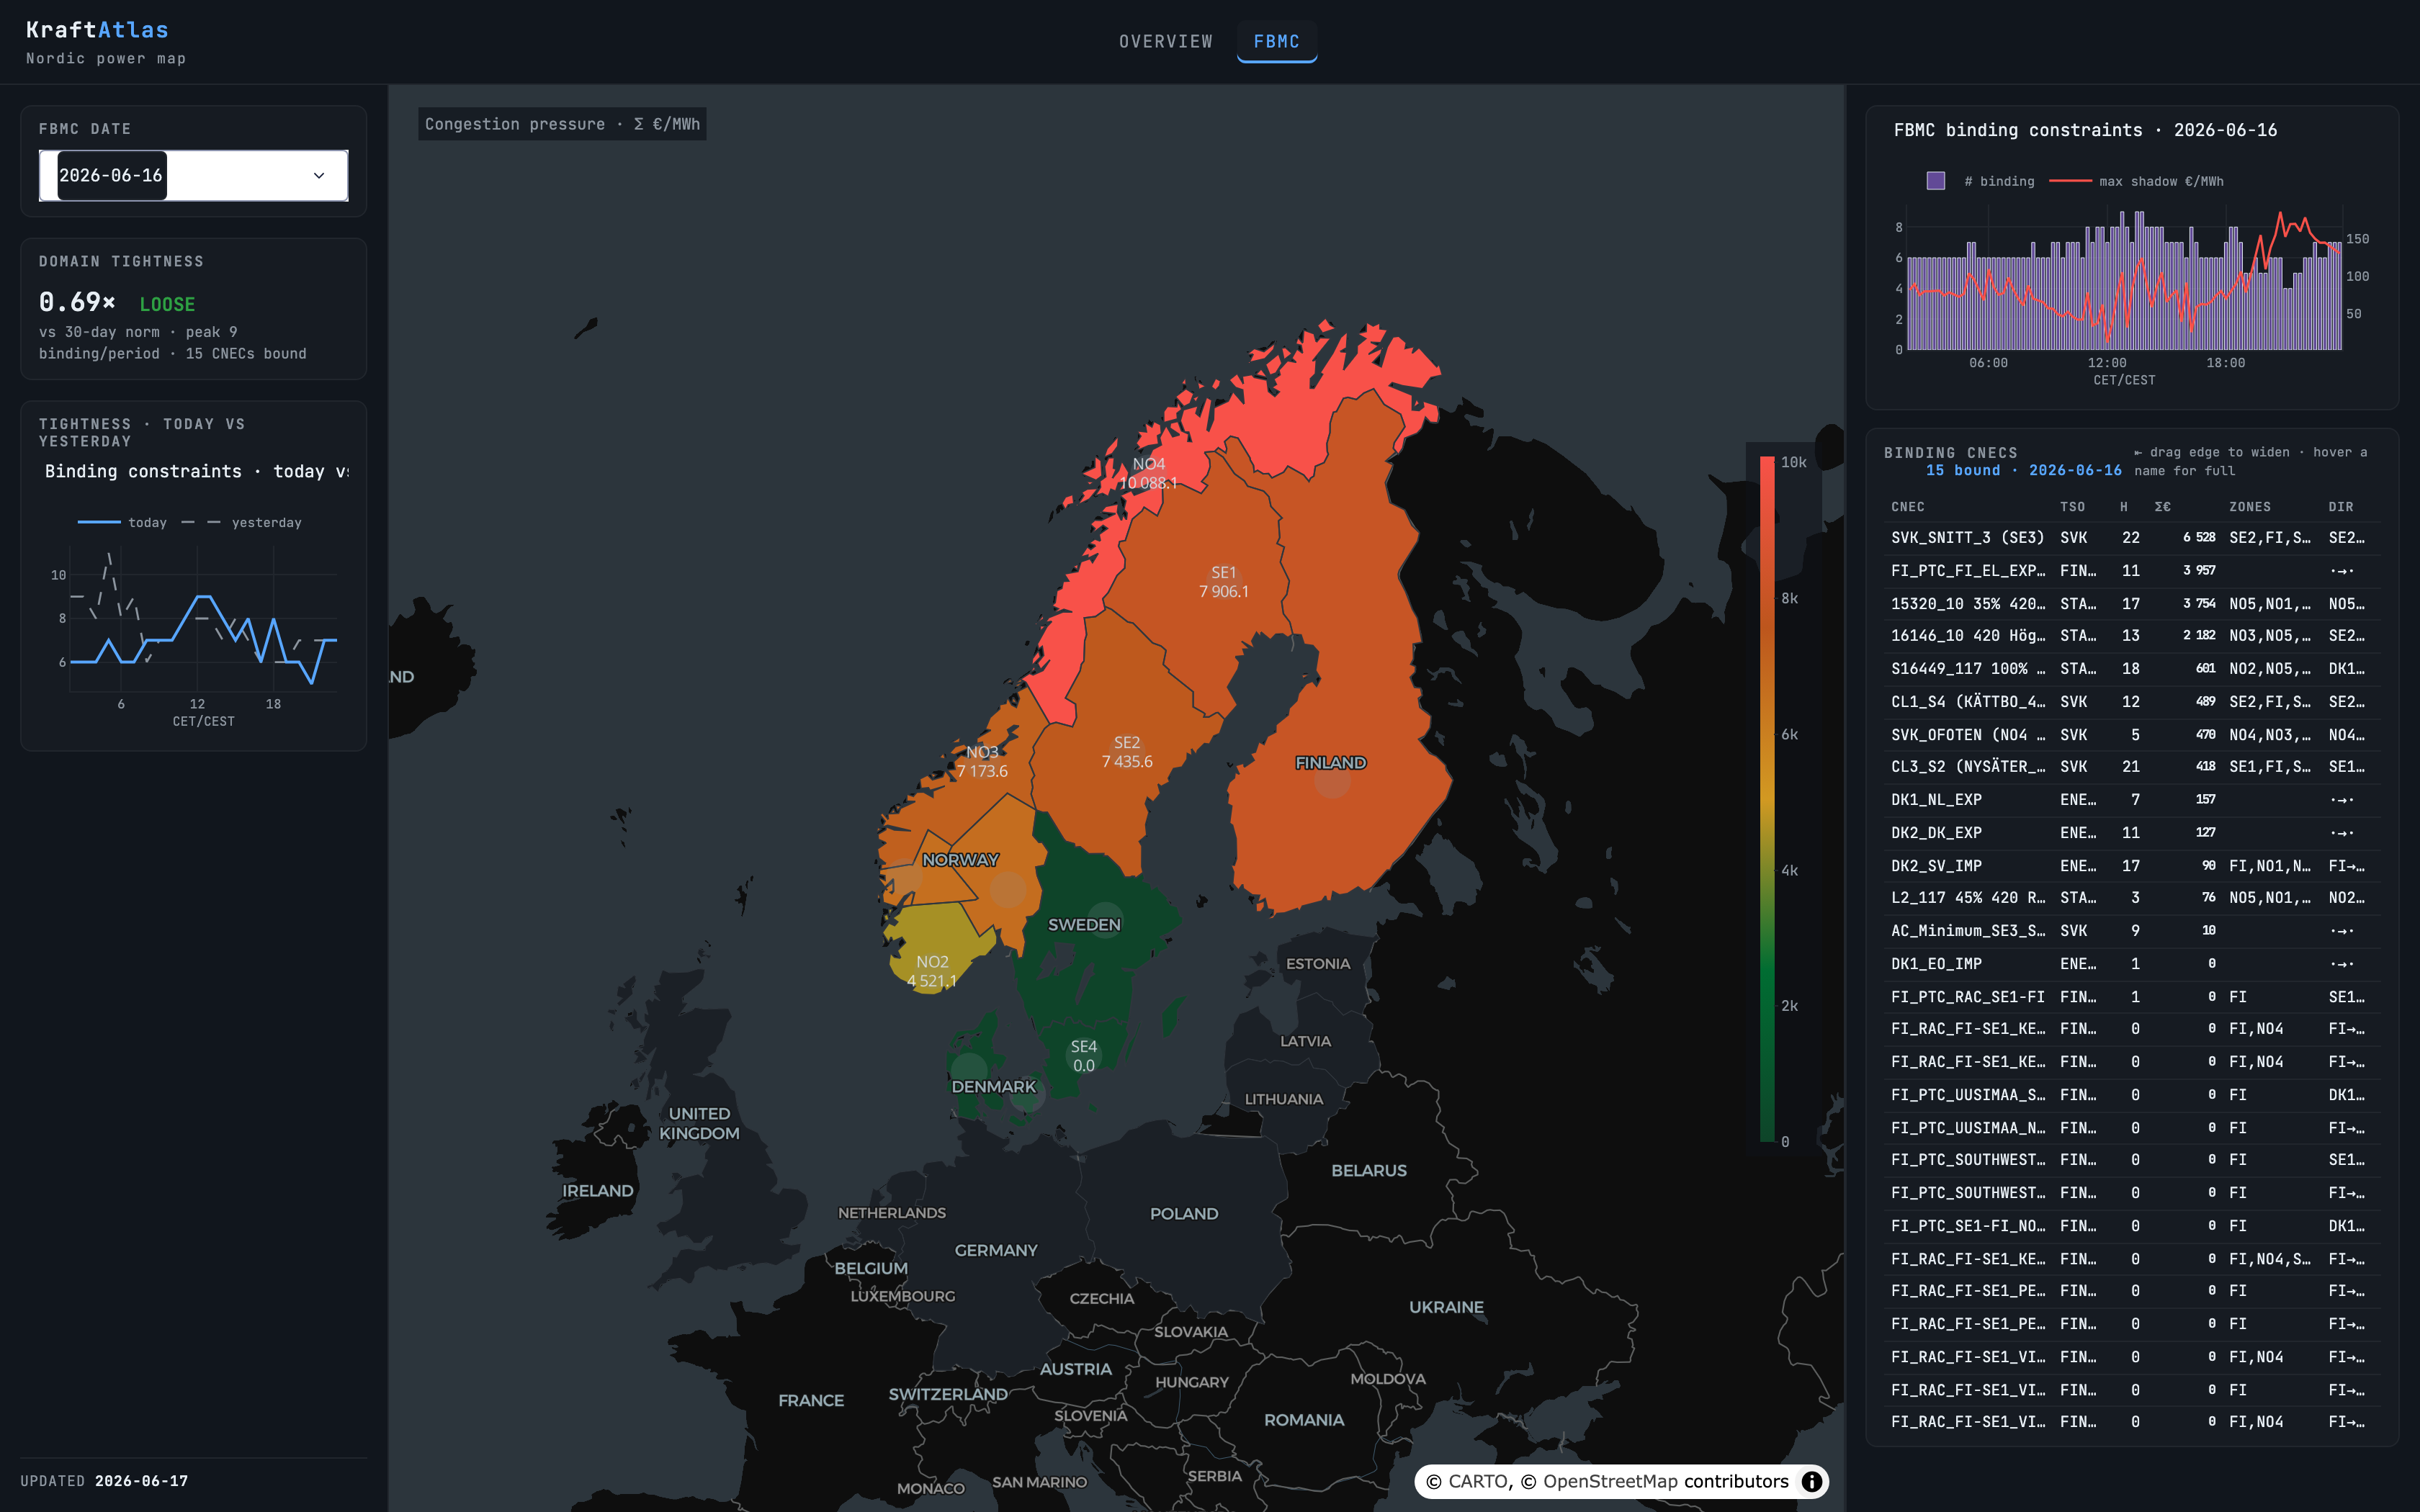
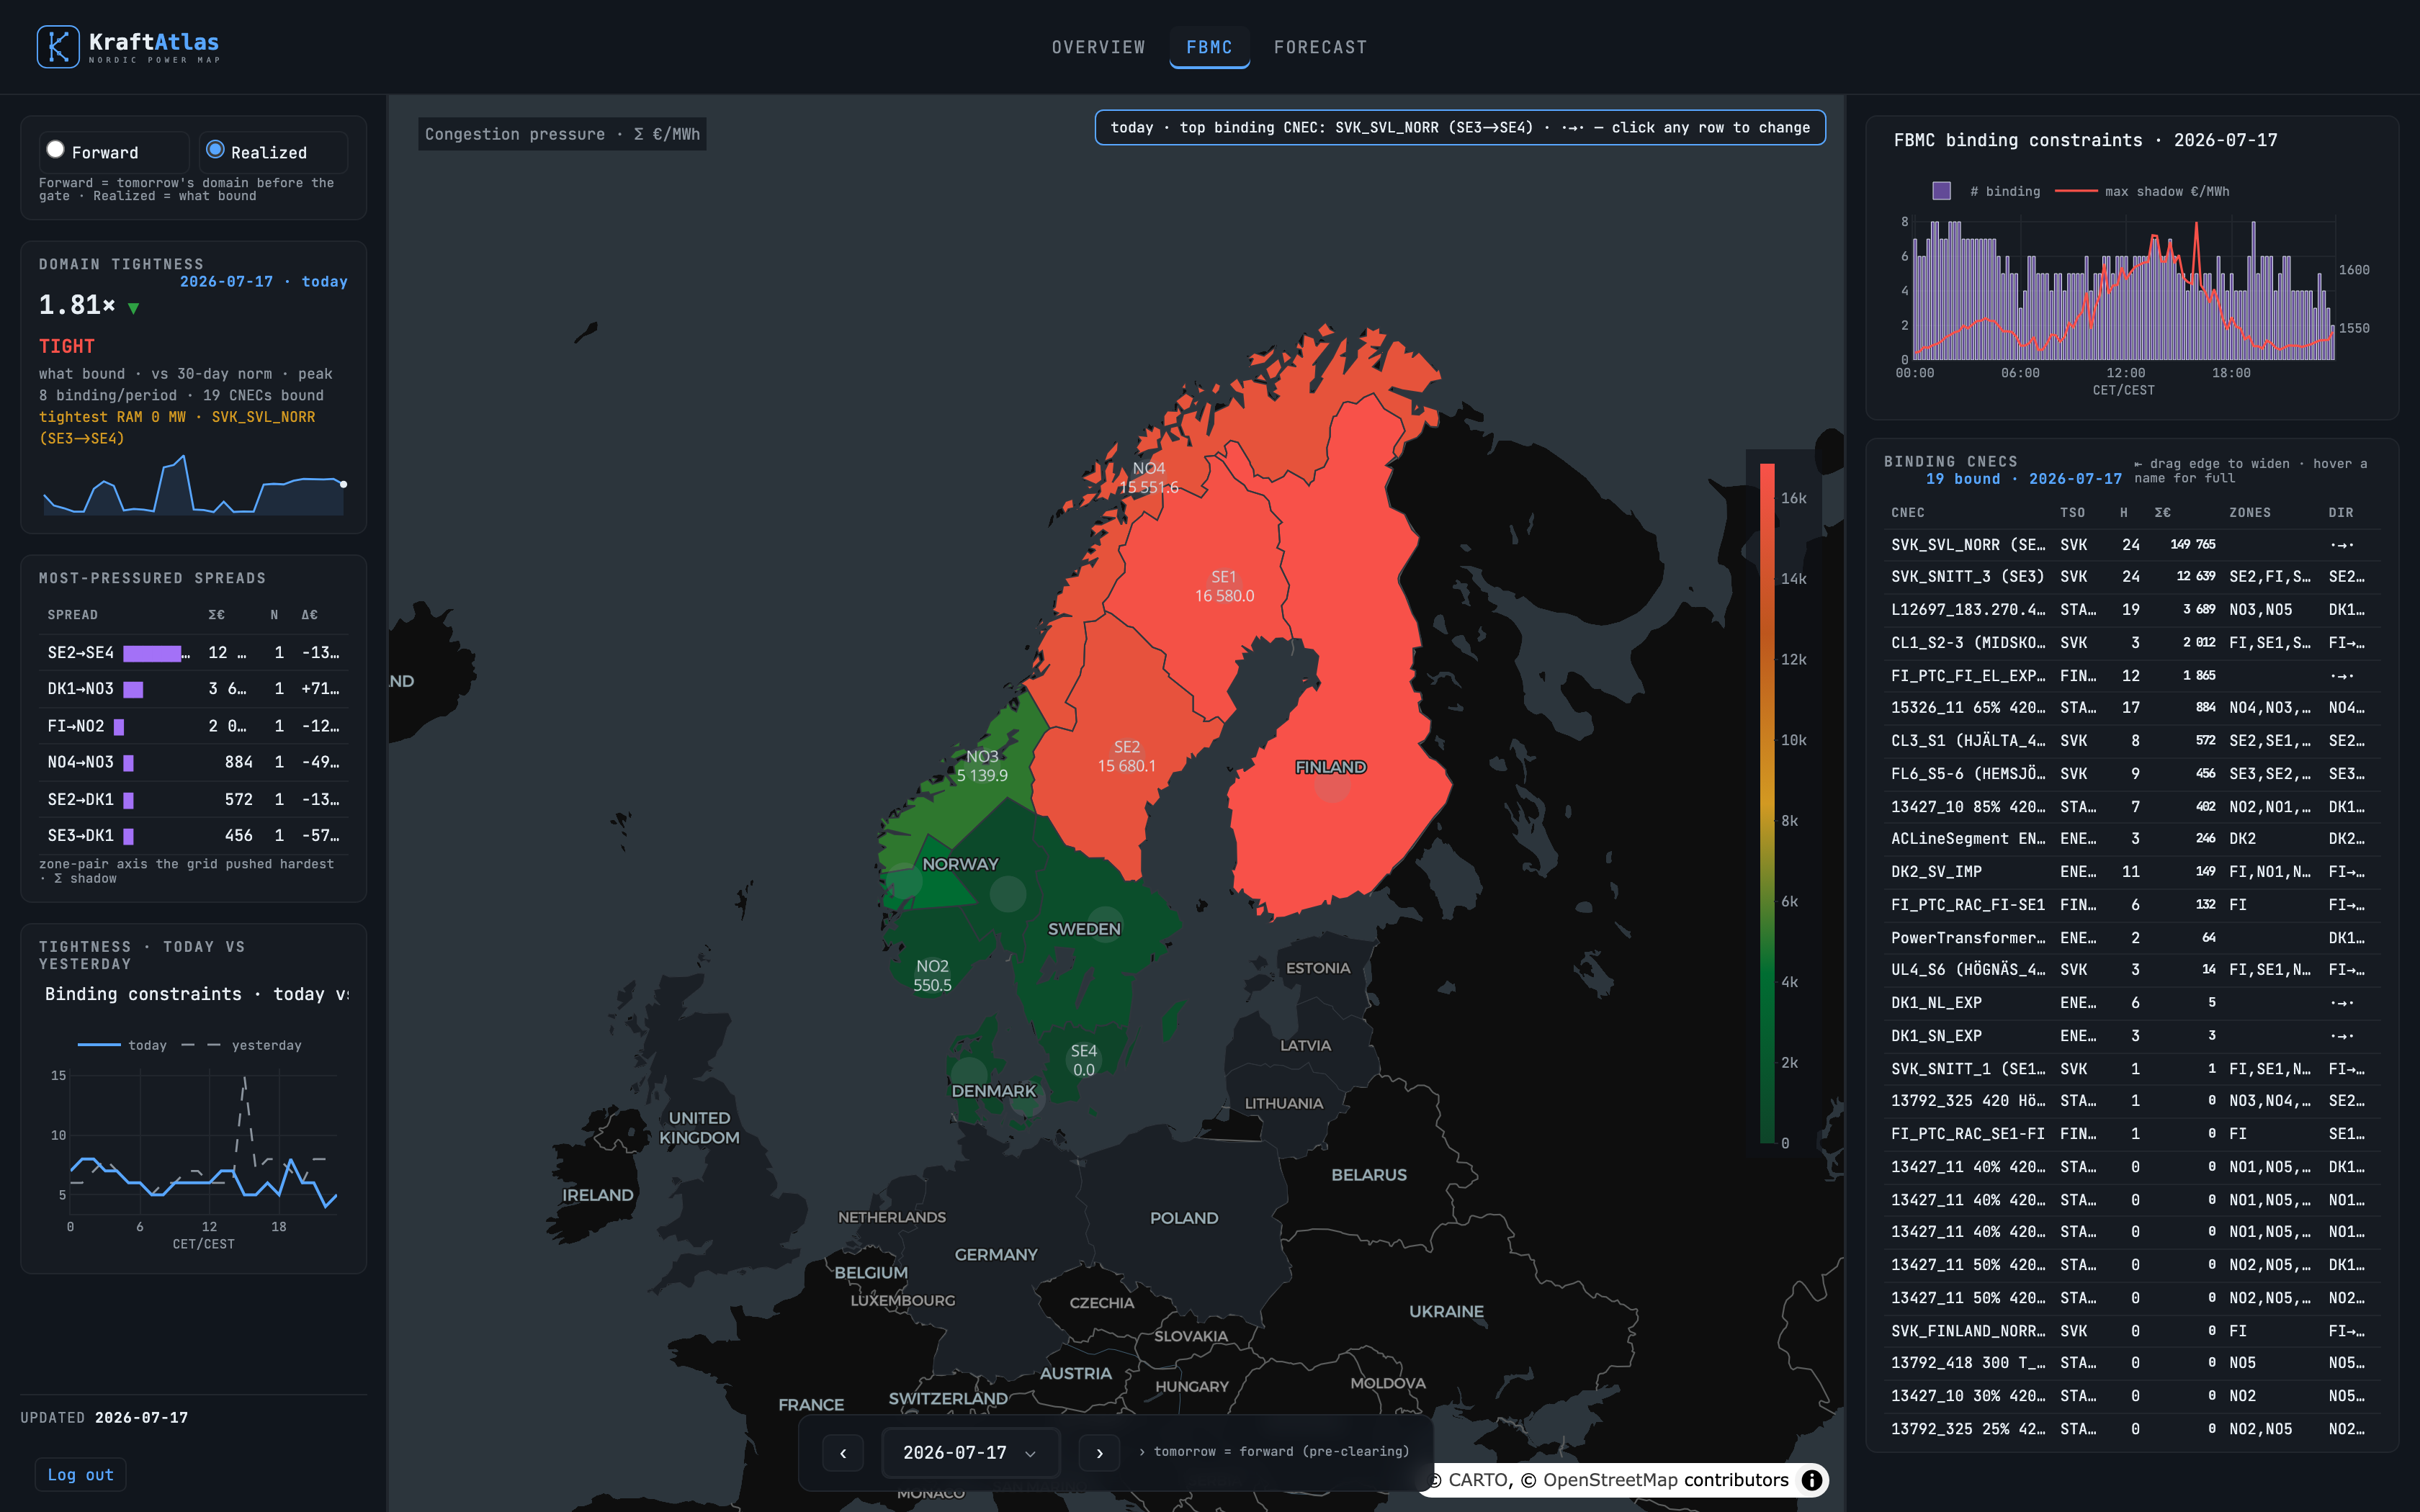
Product page: forecast module gets a real screenshot showcase
Section 03 becomes a showcase like the map and FBMC sections — live
forecast-page shot (fan + realized overlay, elevated-risk alert with the
named Snitt 3 driver, delivery-day context rail) with the feature list;
refresh the FBMC screenshot.

diff --git a/product/index.html b/product/index.html
@@ -126,32 +126,22 @@
     <!-- ── 3 · FORECAST ─────────────────────────────────────── -->
     <section class="block" id="forecast" style="padding-top:0;">
       <div class="wrap">
-        <div class="section-head reveal" style="max-width:760px;">
-          <span class="tag edge">03 · The spread forecast <span class="badge-live">Record accruing</span></span>
-          <h2 style="margin-top:8px;">Forecast the spread you actually trade — scored in the open.</h2>
-          <p>A calibrated model publishes a probabilistic spread-risk forecast before gate closure, every morning — and every call lands on a dated, immutable record. The primary scored product is monthly EPAD fair value, SE3 · SE4 · FI first; the public scoreboard starts 1 Aug 2026.</p>
-        </div>
-        <div class="cols cols-4">
-          <div class="card reveal">
-            <div class="ico"><svg viewBox="0 0 24 24"><path d="M3 12h4l3 7 4-14 3 7h4"/></svg></div>
-            <h3>Quantile fans</h3>
-            <p>Not a single number — a calibrated distribution. Median plus the spread of plausible outcomes for tomorrow.</p>
+        <div class="showcase">
+          <div class="copy reveal">
+            <span class="tag edge">03 · The spread forecast <span class="badge-live">Record accruing</span></span>
+            <h3>Forecast the spread you actually trade — scored in the open.</h3>
+            <p>A calibrated model publishes a probabilistic spread-risk forecast before gate closure, every morning — and every call lands on a dated, immutable record. The primary scored product is monthly EPAD fair value, SE3 · SE4 · FI first; the public scoreboard starts 1 Aug 2026.</p>
+            <ul class="feature-list">
+              <li>Quantile fan for tomorrow's spread — a calibrated distribution, not a point guess</li>
+              <li>Tail probabilities a desk hedges on: P(spread &lt; −10), P(|spread| &gt; 20)</li>
+              <li>Named constraint drivers — not just "risky day", but which cut and how active it's been</li>
+              <li><a href="/scorecard/" style="color:var(--accent);">Every call timestamped pre-gate on the public record →</a></li>
+            </ul>
           </div>
-          <div class="card reveal">
-            <div class="ico"><svg viewBox="0 0 24 24"><path d="M12 3v9l6 3"/><circle cx="12" cy="12" r="9"/></svg></div>
-            <h3>Tail probabilities</h3>
-            <p>The numbers a desk hedges on: P(spread &lt; −10), P(|spread| &gt; 20). Probabilities, checked against what actually happened.</p>
+          <div class="shot reveal">
+            <div class="bar"><i></i><i></i><i></i><span class="addr mono">app.kraftatlas.no · Forecast</span></div>
+            <img src="/assets/img/dashboard-forecast.png" alt="Kraftatlas forecast module — spread-risk fan with realized overlay, elevated-risk alert with named constraint drivers, and delivery-day context" loading="lazy" />
           </div>
-          <div class="card reveal">
-            <div class="ico"><svg viewBox="0 0 24 24"><path d="M13 2L3 14h9l-1 8 10-12h-9l1-8Z"/></svg></div>
-            <h3>Named drivers</h3>
-            <p>Not just "risky day" — which constraint is driving it and how active it's been. Alerts you can argue with, named down to the cut.</p>
-          </div>
-          <a class="card reveal" href="/scorecard/">
-            <div class="ico"><svg viewBox="0 0 24 24"><path d="M4 4v16h16"/><path d="M8 16l3-3 3 2 4-6"/><circle cx="18" cy="9" r="1"/></svg></div>
-            <h3>Public track record →</h3>
-            <p>Every forecast timestamped pre-gate, hashed and scored in the open — accruing since 17 Jul 2026. The one asset nobody can copy faster than real time.</p>
-          </a>
         </div>
       </div>
     </section>